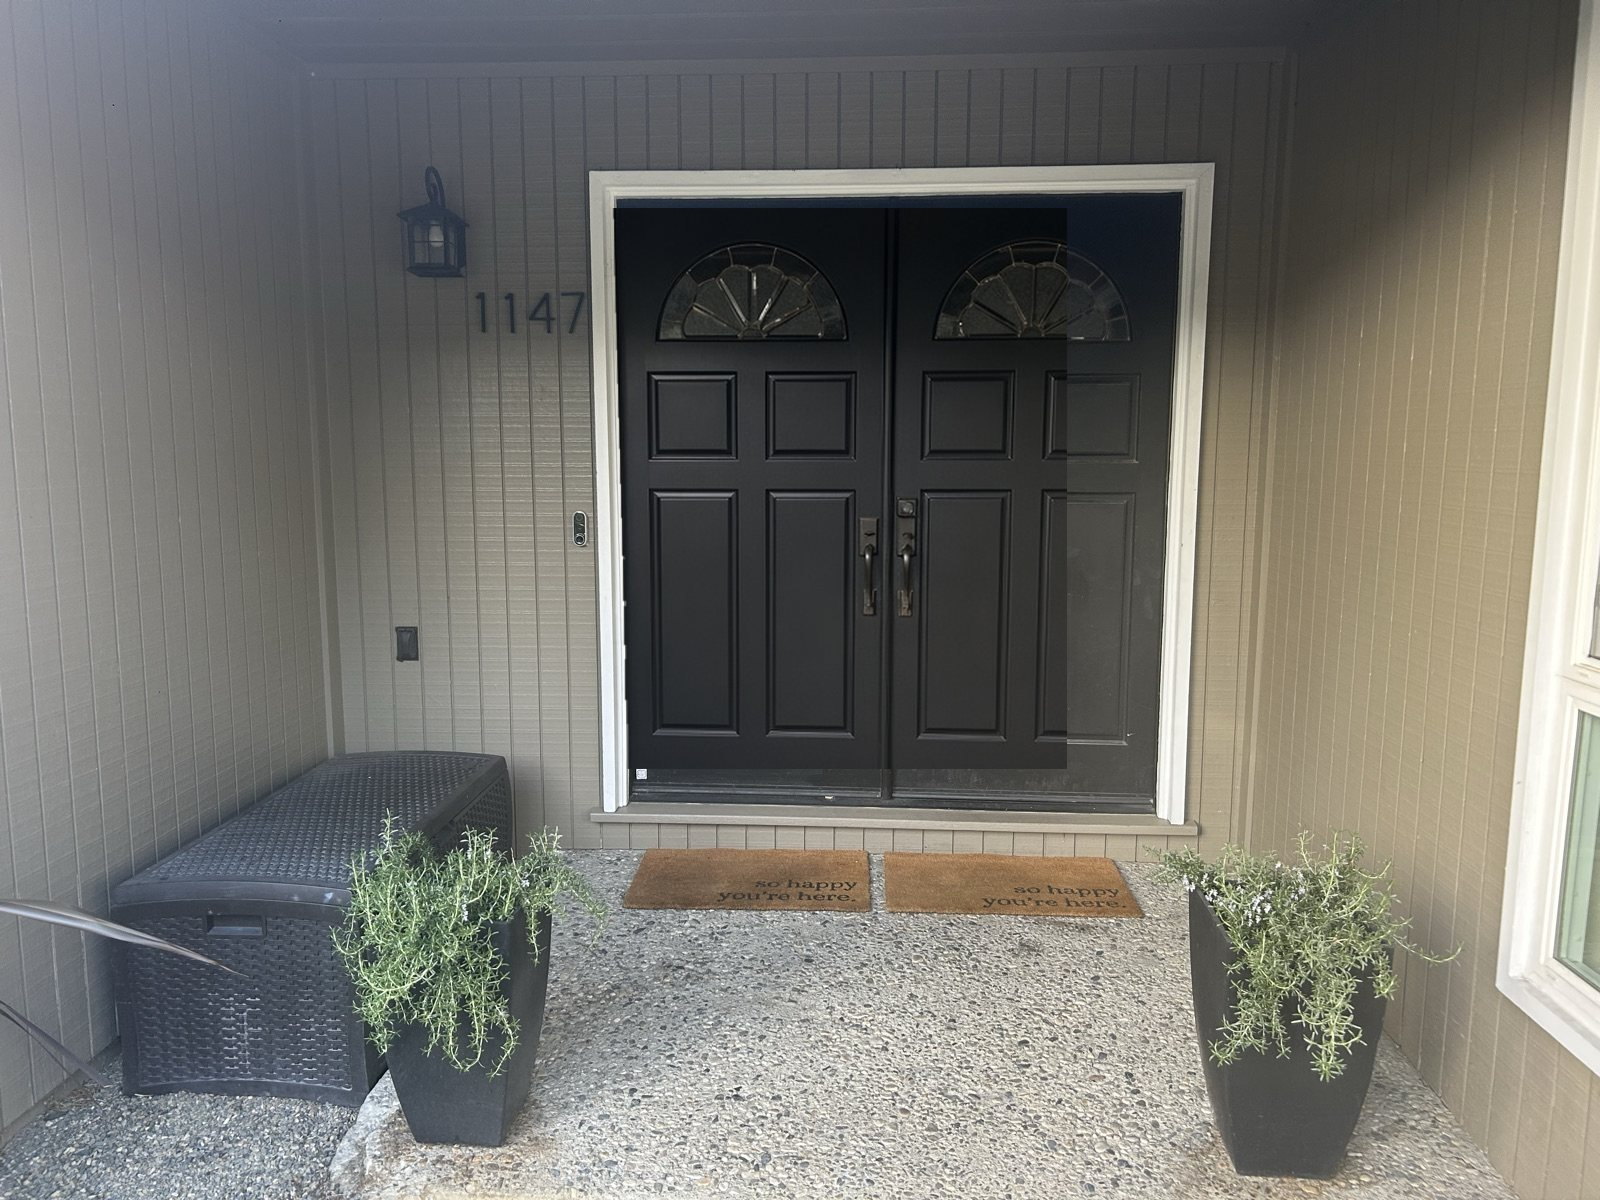
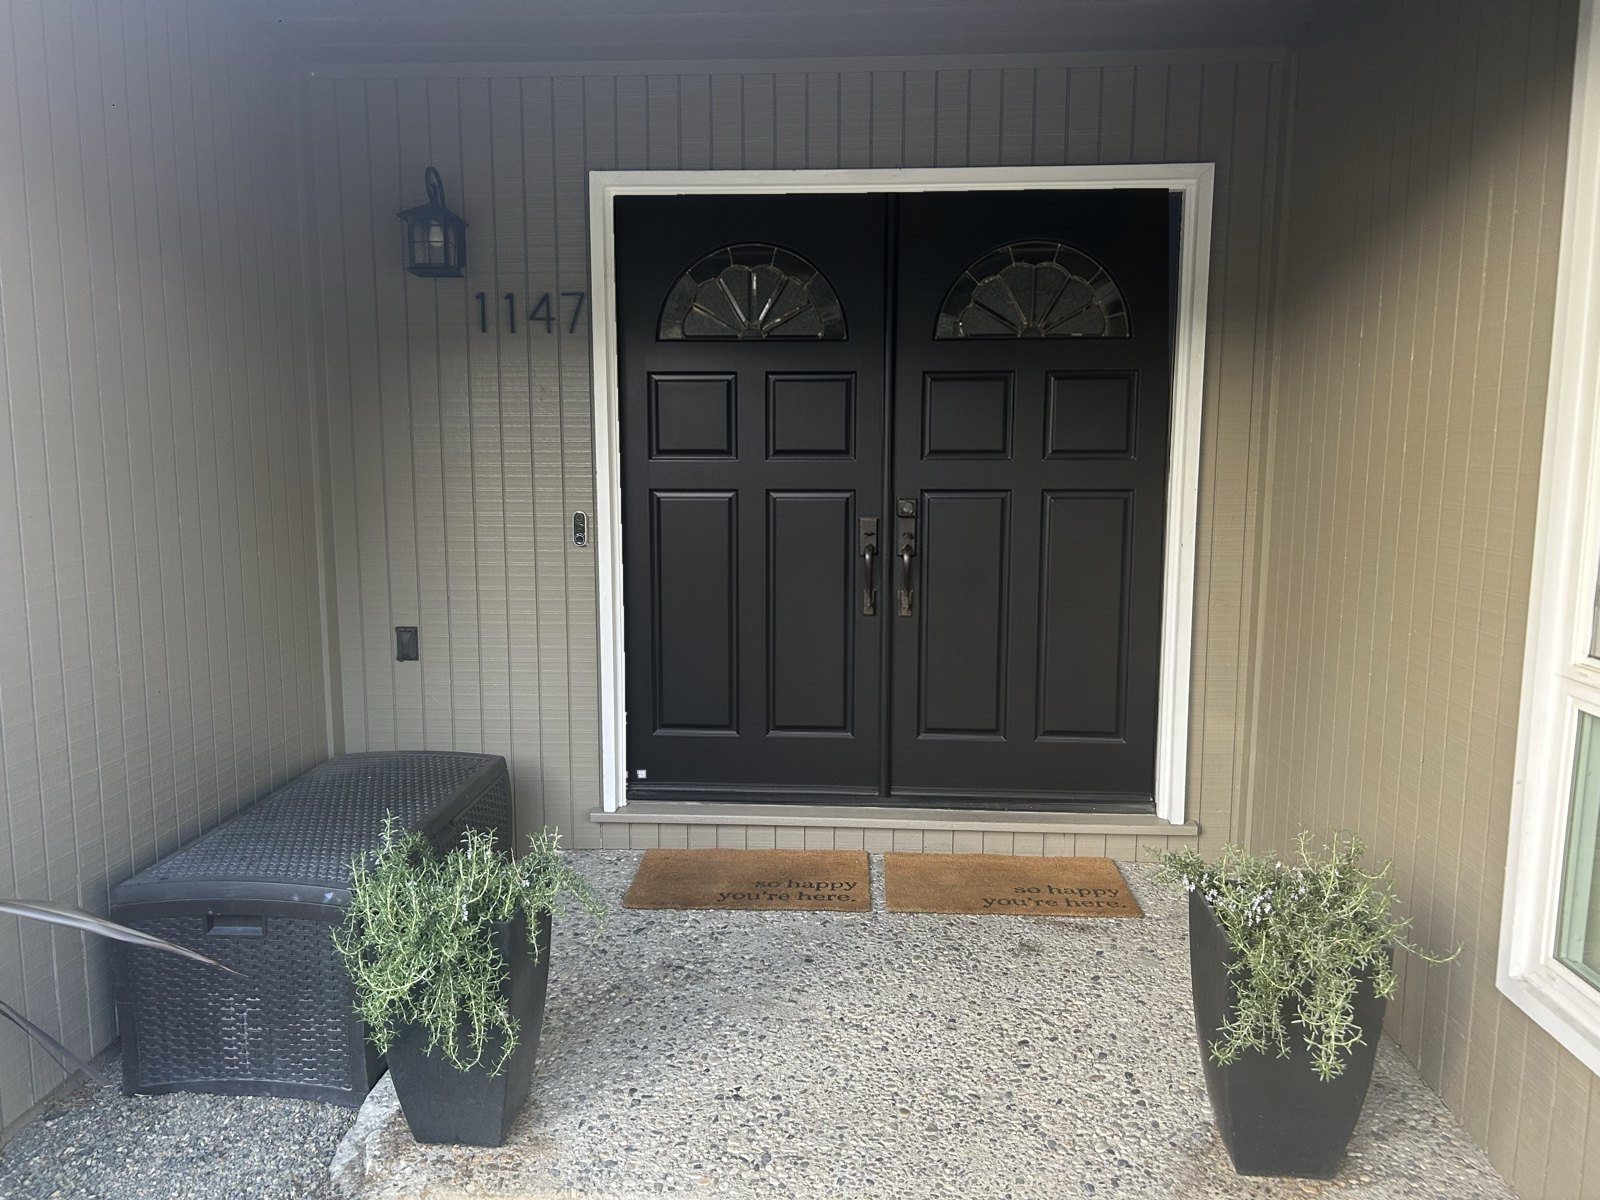
ea

Changed region(s): [[0.375, 0.3083, 0.75, 0.6783], [0.375, 0.1542, 0.75, 0.185]]

diff --git a/sanders/index.html b/sanders/index.html
@@ -21,6 +21,7 @@
   <meta name="twitter:description" content="A single-story home for rent at 1147 Sanders Drive, Moraga. Walk through the rooms, the kitchen, and the pool.">
   <meta name="twitter:image" content="https://jorgespiropulo.com/img/sanders/web/img_1382.jpg">
   <meta name="theme-color" content="#1b433c">
+  <meta name="referrer" content="strict-origin-when-cross-origin">
   <link rel="icon" href="../favicon.svg" type="image/svg+xml">
   <link rel="preconnect" href="https://fonts.googleapis.com">
   <link rel="preconnect" href="https://fonts.gstatic.com" crossorigin>
@@ -49,7 +50,7 @@
       "name": "1147 Sanders Drive",
       "description": "A film of the house at 1147 Sanders Drive, Moraga.",
       "url": "https://youtu.be/ovS_HMoBEoE",
-      "embedUrl": "https://www.youtube-nocookie.com/embed/ovS_HMoBEoE",
+      "embedUrl": "https://www.youtube.com/embed/ovS_HMoBEoE",
       "thumbnailUrl": "https://i.ytimg.com/vi/ovS_HMoBEoE/hqdefault.jpg"
     }
   }
@@ -230,20 +231,33 @@
           </button>
 
         </figure>
-        <div class="pair">
-          <figure class="frame">
-            <button type="button" class="frame-btn" data-shot>
-              <img src="../img/sanders/web/img_1357.jpg" width="896" height="1195" alt="Bedroom with hardwood floors, a bookcase, and a sliding door opening toward the pool" loading="lazy" decoding="async">
-            </button>
-            <figcaption>An extra room, office or bonus room.</figcaption>
-          </figure>
+        <h3 class="rooms-title">Bedrooms</h3>
+        <div class="trio">
           <figure class="frame">
             <button type="button" class="frame-btn" data-shot>
               <img src="../img/sanders/web/img_1353.jpg" width="864" height="1152" alt="Bedroom with light blue walls, a ceiling fan, hardwood floors, and a sliding glass door to the patio" loading="lazy" decoding="async">
             </button>
             <figcaption>This is the primary bedroom, that looks out to the pool.</figcaption>
           </figure>
+          <figure class="frame">
+            <button type="button" class="frame-btn" data-shot>
+              <img src="../img/sanders/web/img_1390.jpg" width="896" height="1195" alt="Bedroom with light blue walls, hardwood floors, a ceiling fan, and a white closet door" loading="lazy" decoding="async">
+            </button>
+            <figcaption>Another view of the primary bedroom.</figcaption>
+          </figure>
+          <figure class="frame">
+            <button type="button" class="frame-btn" data-shot>
+              <img src="../img/sanders/web/img_1354.jpg" width="864" height="1152" alt="White double closet doors with frosted glass panels in a bedroom" loading="lazy" decoding="async">
+            </button>
+            <figcaption>Another view of the primary bedroom with the closet doors.</figcaption>
+          </figure>
         </div>
+        <figure class="frame frame--stand">
+          <button type="button" class="frame-btn" data-shot>
+            <img src="../img/sanders/web/img_1357.jpg" width="896" height="1195" alt="Bedroom with hardwood floors, a bookcase, and a sliding door opening toward the pool" loading="lazy" decoding="async">
+          </button>
+          <figcaption>An extra room, office or bonus room.</figcaption>
+        </figure>
         <div class="pair">
           <figure class="frame">
             <button type="button" class="frame-btn" data-shot>
@@ -258,12 +272,6 @@
             <figcaption>Bedroom 2.</figcaption>
           </figure>
         </div>
-        <figure class="frame frame--stand">
-          <button type="button" class="frame-btn" data-shot>
-            <img src="../img/sanders/web/img_1390.jpg" width="896" height="1195" alt="Bedroom with light blue walls, hardwood floors, a ceiling fan, and a white closet door" loading="lazy" decoding="async">
-          </button>
-          <figcaption>Another view of the primary bedroom.</figcaption>
-        </figure>
       </div>
     </section>
 
@@ -285,12 +293,6 @@
             <img src="../img/sanders/web/img_1358.jpg" width="896" height="1195" alt="Closet with a long hanging rod of wooden hangers and a drawer unit" loading="lazy" decoding="async">
           </button>
           <figcaption>Closet for bedroom 1.</figcaption>
-        </figure>
-        <figure class="frame">
-          <button type="button" class="frame-btn" data-shot>
-            <img src="../img/sanders/web/img_1354.jpg" width="864" height="1152" alt="White double closet doors with frosted glass panels in a bedroom" loading="lazy" decoding="async">
-          </button>
-          <figcaption>Another view of the primary bedroom with the closet doors.</figcaption>
         </figure>
         <figure class="frame">
           <button type="button" class="frame-btn" data-shot>
@@ -361,16 +363,14 @@
         <div class="chapter-intro">
           <p class="kicker">10 — Film</p>
           <h2>A walk through</h2>
-          <p>The house in one continuous look.</p>
+          <p>The yard in one continuous look.</p>
         </div>
         <div class="film-stage">
           <iframe
-            src="https://www.youtube-nocookie.com/embed/ovS_HMoBEoE?rel=0"
+            src="https://www.youtube.com/embed/ovS_HMoBEoE?playsinline=1&amp;mute=1&amp;controls=0&amp;disablekb=1&amp;fs=0&amp;rel=0"
             title="Film of 1147 Sanders Drive, Moraga"
-            loading="lazy"
-            allow="accelerometer; autoplay; clipboard-write; encrypted-media; gyroscope; picture-in-picture; web-share"
-            referrerpolicy="strict-origin-when-cross-origin"
-            allowfullscreen></iframe>
+            allow="autoplay; encrypted-media"
+            referrerpolicy="strict-origin-when-cross-origin"></iframe>
         </div>
         <p class="film-note"><a href="https://youtu.be/ovS_HMoBEoE">Watch on YouTube</a></p>
       </div>

diff --git a/css/sanders.css b/css/sanders.css
@@ -331,7 +331,17 @@ a {
   gap: 1.35rem;
 }
 
+.rooms-title {
+  margin: 0.85rem 0 0;
+  font-family: var(--serif);
+  font-size: clamp(1.8rem, 3vw, 2.5rem);
+  font-weight: 600;
+  letter-spacing: -0.03em;
+  line-height: 1.05;
+}
+
 .pair,
+.trio,
 .spread {
   display: grid;
   gap: 1rem 1.15rem;
@@ -340,6 +350,10 @@ a {
 
 .pair {
   grid-template-columns: 1fr 1fr;
+}
+
+.trio {
+  grid-template-columns: 1fr 1fr 1fr;
 }
 
 .spread {
@@ -449,12 +463,53 @@ figcaption {
   box-shadow: 0 22px 50px rgba(16, 30, 26, 0.14);
 }
 
-.film-stage iframe {
+.film-stage iframe,
+.film-play {
   position: absolute;
   inset: 0;
   width: 100%;
   height: 100%;
   border: 0;
+}
+
+.film-play {
+  display: block;
+  padding: 0;
+  background: #101412;
+  cursor: pointer;
+}
+
+.film-play img {
+  width: 100%;
+  height: 100%;
+  object-fit: cover;
+}
+
+.film-play-mark {
+  position: absolute;
+  left: 50%;
+  top: 50%;
+  display: grid;
+  place-items: center;
+  width: 4.25rem;
+  height: 4.25rem;
+  border-radius: 50%;
+  background: rgba(16, 30, 26, 0.78);
+  color: #f6f3ec;
+  transform: translate(-50%, -50%);
+  transition: background 0.2s ease, transform 0.2s ease;
+}
+
+.film-play-mark svg {
+  width: 1.7rem;
+  height: 1.7rem;
+  margin-left: 0.15rem;
+}
+
+.film-play:hover .film-play-mark,
+.film-play:focus-visible .film-play-mark {
+  background: var(--green);
+  transform: translate(-50%, -50%) scale(1.04);
 }
 
 .film-note {
@@ -619,6 +674,7 @@ figcaption {
 
 @media (max-width: 800px) {
   .pair,
+  .trio,
   .spread,
   .closets,
   .finale {
@@ -671,5 +727,12 @@ figcaption {
   .frame-btn:hover img,
   .frame-btn:focus-visible img {
     transform: none;
+  }
+
+  .film-play-mark,
+  .film-play:hover .film-play-mark,
+  .film-play:focus-visible .film-play-mark {
+    transition: none;
+    transform: translate(-50%, -50%);
   }
 }
